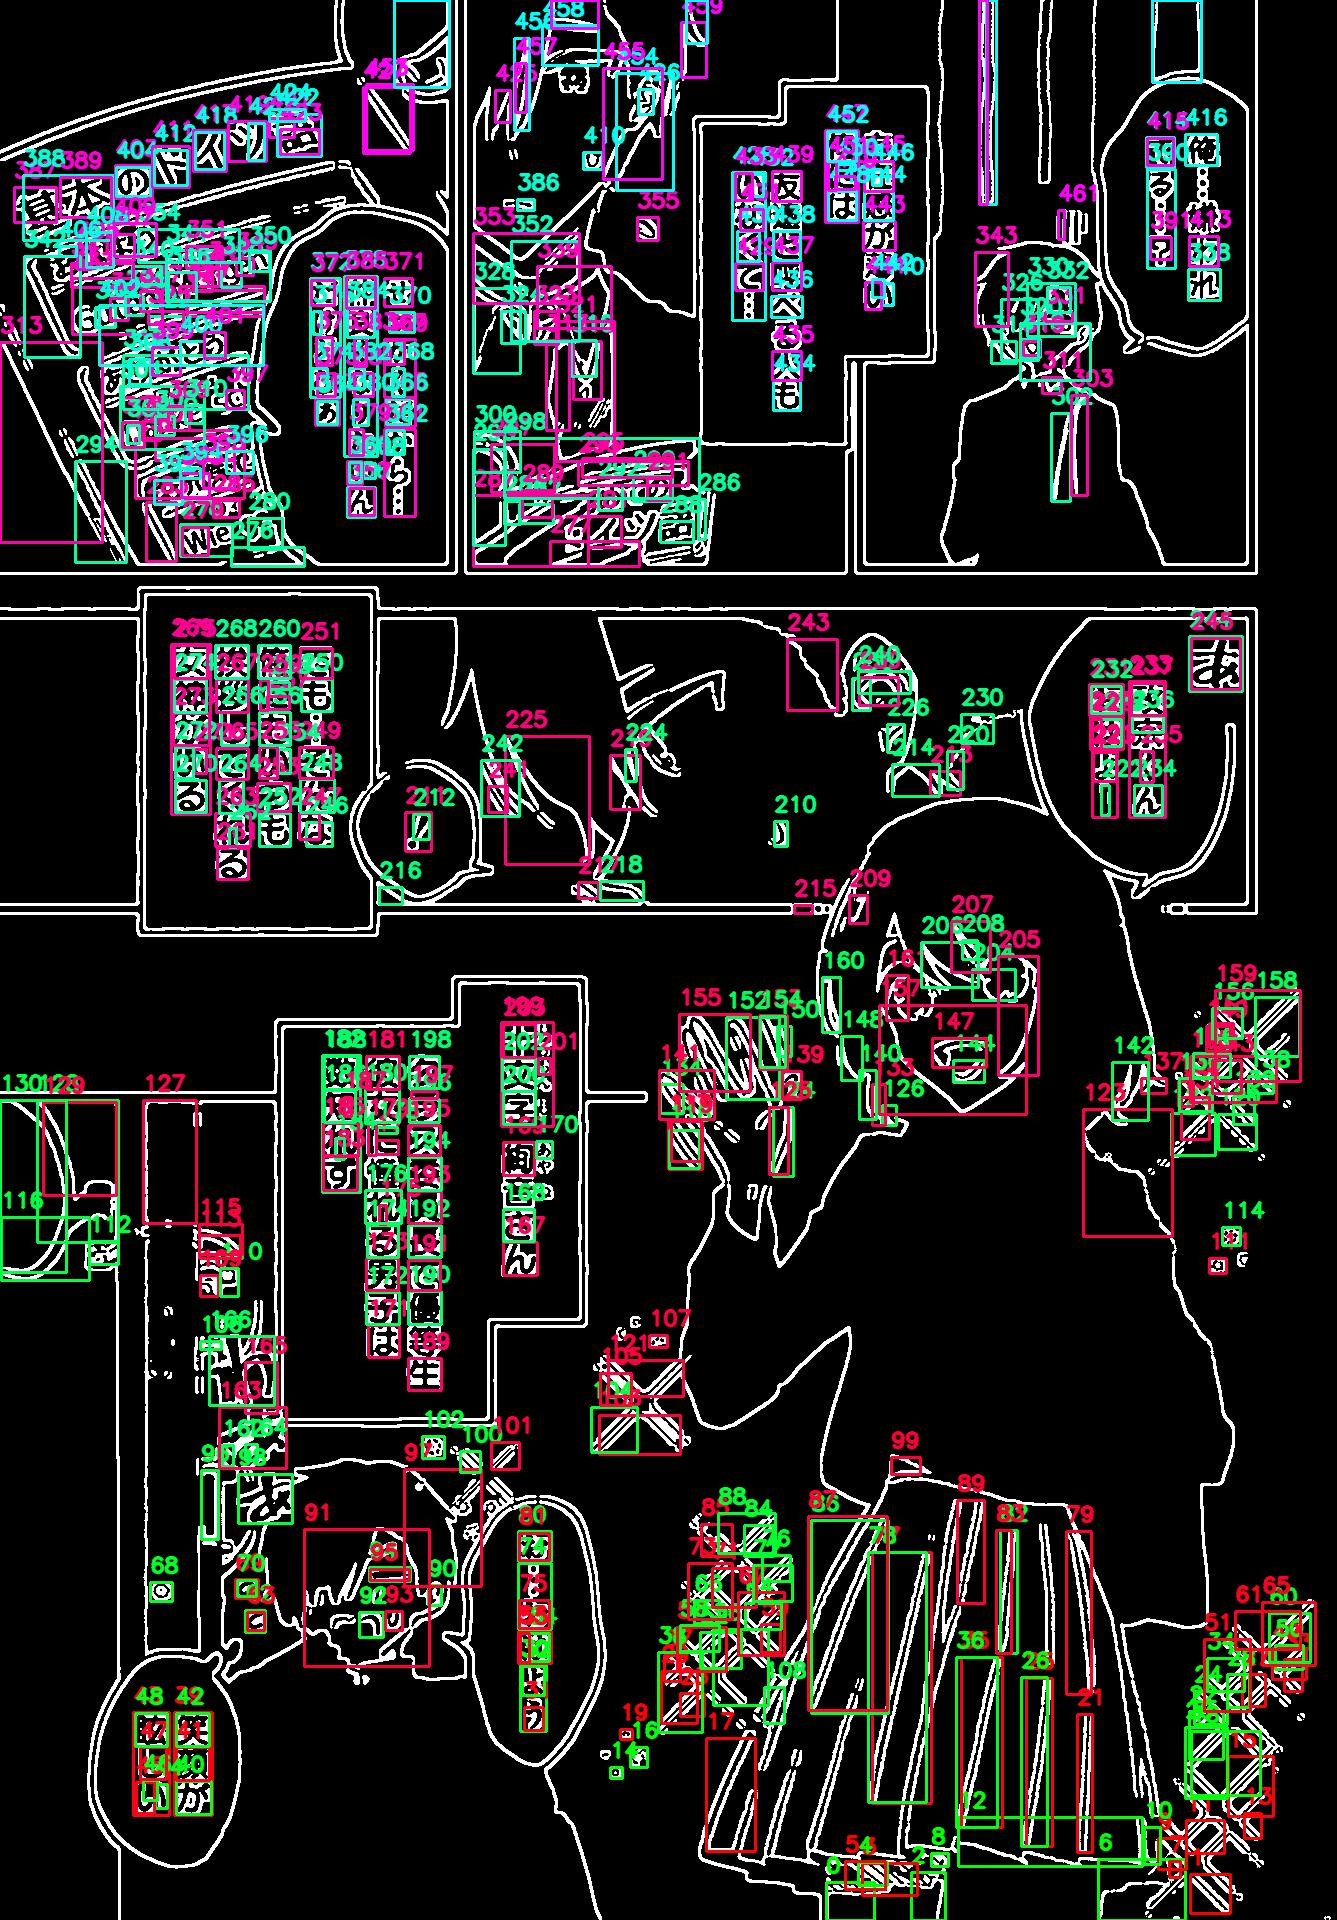
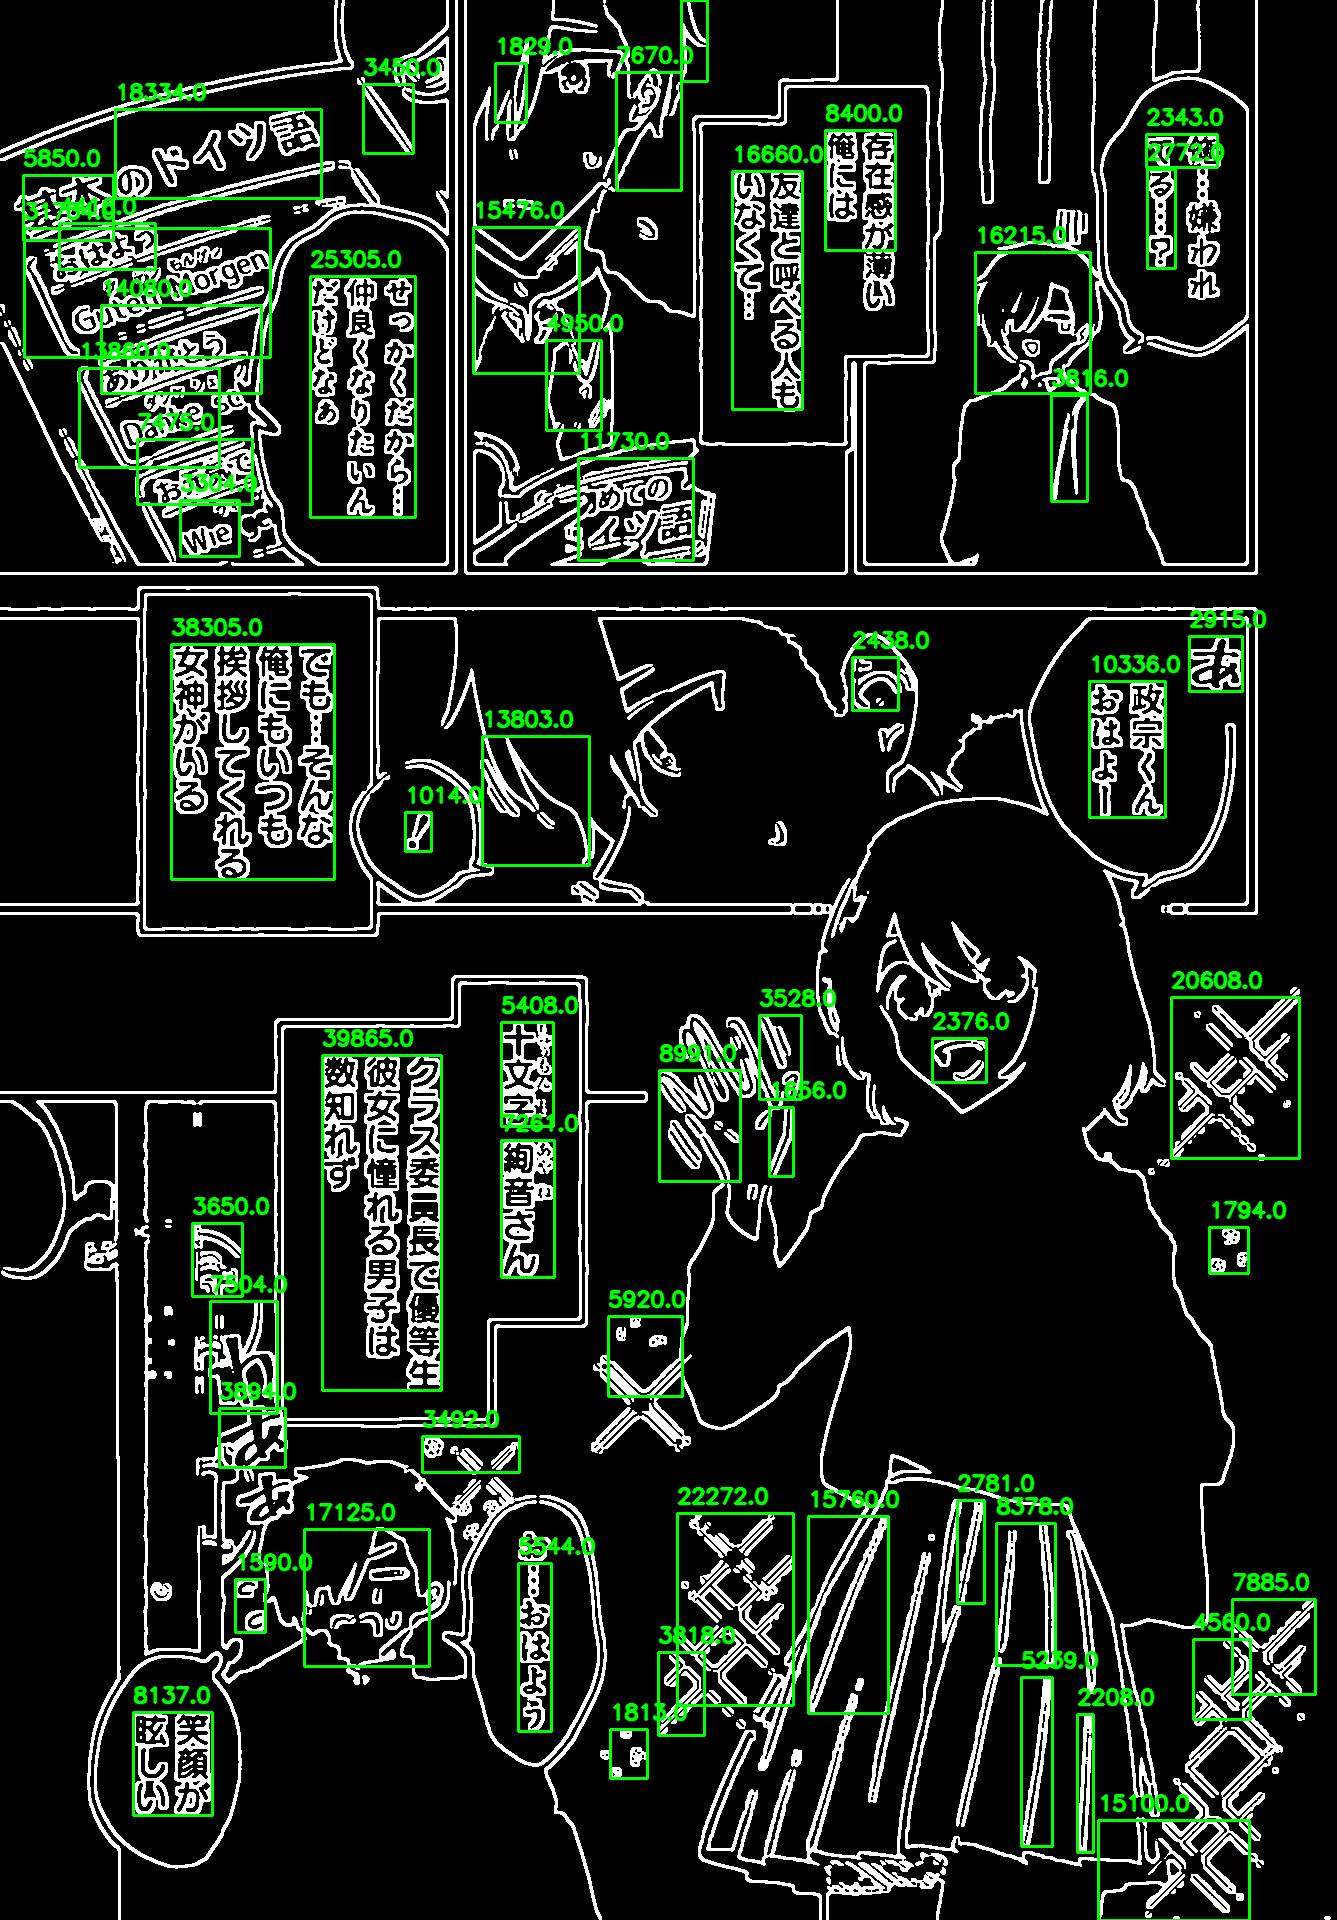
clustering almost done

diff --git a/lib/types/page.py b/lib/types/page.py
@@ -1,4 +1,3 @@
-import random # type: ignore
 import cv2
 import numpy as np
 from sklearn.cluster import DBSCAN
@@ -10,12 +9,14 @@ import manga_ocr # type: ignore
 from PIL import Image # type: ignore
 
 class Page:
-	def __init__(self, img:cv2.Mat, mocr:manga_ocr.MangaOcr) -> None:
+	def __init__(self, img:cv2.typing.MatLike, mocr:manga_ocr.MangaOcr, file:str) -> None:
+		self.file:str = file
 		self.mocr:manga_ocr.MangaOcr = mocr
-		self.img:cv2.Mat = img
+		self.img:cv2.typing.MatLike = img
 		self.area:int = img.shape[0]*img.shape[1]
+		self.width:int = img.shape[1]
 		start:dt = dt.now()
-		self.mask:cv2.Mat = self.createMask(cv2.cvtColor(self.img, cv2.COLOR_BGR2GRAY)) # type: ignore
+		self.mask:cv2.typing.MatLike = self.createMask(cv2.cvtColor(self.img, cv2.COLOR_BGR2GRAY)) # type: ignore
 		self.bubbles:list[Bubble] = self.conjectBubbles()
 		self.bubbles = [b for b in self.bubbles if b.hasContent]
 		# for b in self.bubbles:
@@ -24,122 +25,60 @@ class Page:
 		self.img = self.drawTextBounds(self.img)
 		self.tDelta:float = (end-start).total_seconds()*1000
 
-	def createMask(self, img:cv2.Mat) -> cv2.Mat:
-		threshed:cv2.Mat = cv2.threshold(cv2.medianBlur(img, 5), 200, 255, cv2.THRESH_BINARY)[1] # type: ignore // reduced threshold less black
-		morphed:cv2.Mat = cv2.morphologyEx(threshed, cv2.MORPH_RECT, cv2.getStructuringElement(cv2.MORPH_RECT,(7,7))) # type: ignore // (9,9) < -> less thick > -> thicker
-		contours:list[cv2.Mat] = cv2.findContours(threshed, cv2.RETR_CCOMP, cv2.CHAIN_APPROX_SIMPLE)[0] # type: ignore
-		filteredContours:list[cv2.Mat] = [contour for contour in contours if cv2.contourArea(contour) > 15000 and cv2.mean(morphed, mask=cv2.bitwise_not(morphed))[0] == 0]
-		mask:cv2.Mat = np.zeros_like(morphed)
+	def createMask(self, img:cv2.typing.MatLike) -> cv2.typing.MatLike:
+		threshed:cv2.typing.MatLike = cv2.threshold(cv2.medianBlur(img, 5), 200, 255, cv2.THRESH_BINARY)[1] # type: ignore // reduced threshold less black
+		morphed:cv2.typing.MatLike = cv2.morphologyEx(threshed, cv2.MORPH_RECT, cv2.getStructuringElement(cv2.MORPH_RECT,(7,7))) # type: ignore // (9,9) < -> less thick > -> thicker
+		contours:list[cv2.typing.MatLike] = cv2.findContours(threshed, cv2.RETR_CCOMP, cv2.CHAIN_APPROX_SIMPLE)[0] # type: ignore
+		filteredContours:list[cv2.typing.MatLike] = [contour for contour in contours if cv2.contourArea(contour) > 15000 and cv2.mean(morphed, mask=cv2.bitwise_not(morphed))[0] == 0]
+		mask:cv2.typing.MatLike = np.zeros_like(morphed)
 		cv2.drawContours(mask, filteredContours, -1, 1, thickness=cv2.FILLED) # type: ignore
 		morphed = cv2.bitwise_not(morphed) # type: ignore
 		return cv2.bitwise_and(morphed, morphed, mask=mask) # type: ignore
 
 	def conjectBubbles(self) -> list[Bubble]:
 		bbs:list[Bubble] = []
-		gray = cv2.cvtColor(self.img, cv2.COLOR_BGR2GRAY)
+		gray:cv2.typing.MatLike = cv2.cvtColor(self.img, cv2.COLOR_BGR2GRAY)
 		gray = cv2.bitwise_and(gray, self.mask)
 		
-		blurred:cv2.Mat = cv2.medianBlur(gray, 3) # type: ignore
-		threshed:cv2.Mat = cv2.threshold(blurred, 200, 255, cv2.THRESH_BINARY)[1] # type: ignore
+		blurred:cv2.typing.MatLike = cv2.medianBlur(gray, 3) # type: ignore
+		threshed:cv2.typing.MatLike = cv2.threshold(blurred, 170, 255, cv2.THRESH_BINARY)[1] # type: ignore
 
-		contours:list[cv2.Mat] = cv2.findContours(threshed, cv2.RETR_TREE, cv2.CHAIN_APPROX_SIMPLE)[0] # type: ignore
-		self.img=cv2.cvtColor(threshed, cv2.COLOR_GRAY2BGR) # type: ignore		
-		filtered:list[cv2.Mat] = []
+		contours:list[cv2.typing.MatLike] = cv2.findContours(threshed, cv2.RETR_TREE, cv2.CHAIN_APPROX_SIMPLE)[0] # type: ignore
+		self.img=cv2.cvtColor(threshed, cv2.COLOR_GRAY2BGR) # type: ignore
+		filtered:list[cv2.typing.MatLike] = []
 		for c in range(len(contours)):
 			if len(contours[c]) <= 0: continue
-			perimeter = cv2.arcLength(contours[c], True)
-			# color:tuple[int,int,int] = (0,255,255) if perimeter < 550 else (255,0,255)
-			# color:tuple[int,int,int] = (random.randint(1,256),random.randint(1,256),random.randint(1,256))
+			perimeter:float = cv2.arcLength(contours[c], True)
 			if perimeter > self.img.shape[1]*.42: continue
 			area:float = cv2.contourArea(contours[c])
 			if not self.area*.00003 < area < self.area*.005: continue
-			# approx = cv2.approxPolyDP(contours[c], 0.01 * cv2.arcLength(contours[c], True), True)
-
-			# color:tuple[int,int,int] = (0,255,255) if len(approx) < 20 else (255,0,255)
-
-			# if len(approx) !=12: continue
-			# if (abs(len(contours[c])-len(contours[c-1])) > 5 and abs(len(contours[c])-len(contours[c+1])) > 5) if c+1<len(contours) else False: continue 
-			# cv2.drawContours(self.img, [contours[c]], -1, color, 2)
 			filtered.append(contours[c])
-		a = 255/ len(filtered)
+
+		contourFeatures:list[list[int]] = []
 		for c in range(len(filtered)):
-			color:tuple[int,int,int] = (0,255,a*c) if c%2==0 else (255,0,a*c)
-			drawBoundingBox(self.img, *cv2.boundingRect(filtered[c]), text=str(c), color=color)
-		self.cluster(filtered)
+			moments:cv2.typing.Moments = cv2.moments(filtered[c]) # type: ignore
+			cX:int = int(moments['m10'] / (moments['m00'] if moments['m00']>0 else 1))
+			cY:int = int(moments['m01'] / (moments['m00'] if moments['m00']>0 else 1))
+			contourFeatures.append([c,cX,cY])
+
+		scan = DBSCAN(eps=0.035*self.width, min_samples=2, algorithm="auto")
+		labels:cv2.typing.MatLike = scan.fit_predict(np.asarray(contourFeatures, dtype=np.int32)) # type: ignore
+		for l in np.unique(labels): # type: ignore
+			if l == -1: continue
+			clusterI = np.where(labels==l)[0] # type: ignore
+			ccf:list[int] = [contourFeatures[i][0] for i in clusterI]
+			clustered:list[cv2.typing.MatLike] = [filtered[i] for i in ccf]
+			# for c in clustered:
+			# 	cv2.drawContours(self.img, [c], -1, color=color, thickness=2)
+			brs:list[cv2.typing.Rect] = [cv2.boundingRect(c) for c in clustered]
+			crds:list[list[int]] = [[i[e]+i[e-2] if e > 1 else i[e] for i in brs] for e in range(len(brs[0]))]
+			bubbleBounds:cv2.typing.Rect = [min(crds[0]), min(crds[1]), max(crds[2])-min(crds[0]), max(crds[3])-min(crds[1])]
+			if not 1000 < bubbleBounds[2]*bubbleBounds[3] < 100000: continue
+			bbs.append(Bubble(self.img, CropBox(*bubbleBounds,tolerance=20), self.mocr))
 		return bbs
 
-	def cluster(self, contours:list[cv2.Mat]) -> list[cv2.Mat]:
-		clusters:dict[int, list[tuple[float, int, int]]] = {}
-		c:int = 0
-		for i in range(len(contours)-1):
-			M1 = cv2.moments(contours[i])
-			cX1 = int(M1['m10'] / M1['m00'])
-			cY1 = int(M1['m01'] / M1['m00'])
-			M2 = cv2.moments(contours[i+1])
-			cX2 = int(M2['m10'] / M2['m00'])
-			cY2 = int(M2['m01'] / M2['m00'])
-			distance = ((cX2 - cX1)**2 + (cY2 - cY1)**2)**0.5
-			if distance > 100: c+=1
-			try: clusters[c].append((distance, i, i+1))
-			except: clusters[c] = [(distance, i, i+1)]
-		for sc in clusters.items():
-			print(sc)
-
-
-	def conjectBubblesByBlobs(self) -> list[Bubble]:
-		bbs:list[Bubble] = []
-		# mask:cv2.Mat = np.zeros((self.img.shape[0],self.img.shape[1]), dtype=np.uint8)
-		gray = cv2.cvtColor(self.img, cv2.COLOR_BGR2GRAY)
-		gray = cv2.bitwise_and(gray, self.mask)
-		blurred:cv2.Mat = cv2.GaussianBlur(gray, (3,3), 2) # type: ignore // sigma 0, 1 or 2
-		threshed:cv2.Mat = cv2.threshold(blurred, 150, 255, cv2.THRESH_BINARY)[1] # type: ignore
-		blurred2:cv2.Mat = cv2.GaussianBlur(threshed, (3,3), 2) # type: ignore // sigma 0, 1 or 2
-		self.img=blurred2
-		keypoints = cv2.AgastFeatureDetector_create( # type: ignore
-			threshold=64,
-			nonmaxSuppression=False,
-			type=cv2.AGAST_FEATURE_DETECTOR_AGAST_5_8 # type: ignore
-		).detect(blurred2)
-		labels:cv2.Mat = DBSCAN( # type: ignore
-			eps=30,
-			min_samples=16
-		).fit_predict(np.array([(kp.pt[0], kp.pt[1]) for kp in keypoints])) # type: ignore
-		"""
-					threshold=120,
-			nonmaxSuppression=True,
-			type=cv2.AGAST_FEATURE_DETECTOR_OAST_9_16
-		).detect(threshed)
-		labels:cv2.Mat = DBSCAN( # type: ignore
-			eps=35,
-			min_samples=8
-		
-		"""
-		"""
-				keypoints = cv2.AgastFeatureDetector_create( # type: ignore
-			threshold=150,
-			nonmaxSuppression=False,
-			type=cv2.AGAST_FEATURE_DETECTOR_OAST_9_16 # type: ignore
-		).detect(threshed)
-		labels:cv2.Mat = DBSCAN( # type: ignore
-			eps=35,
-			min_samples=30
-		).fit_predict(np.array([(kp.pt[0], kp.pt[1]) for kp in keypoints])) # type: ignore
-		"""
-		for label in np.unique(labels): # type: ignore
-			if label == -1: continue
-			clusterPoints:cv2.Mat = np.array([(kp.pt[0], kp.pt[1]) for i, kp in enumerate(keypoints) if labels[i] == label]).astype(np.int32) # type: ignore
-			if len(clusterPoints) < 3: continue
-			br:tuple[int,...] = cv2.boundingRect(clusterPoints) # type: ignore
-			if not 0.075*self.area > br[2]*br[3] > 0.0005*self.area: continue
-			bbs.append(Bubble(self.img, CropBox(*br, tolerance=20), self.mocr))
-
-			# cv2.rectangle(mask, (br[0]-20, br[1]-20), (br[0] + br[2]+40, br[1] + br[3]+40), (255), -1) # type: ignore
-		self.img = cv2.drawKeypoints(self.img, keypoints, None, (255,0,255)) # type: ignore
-		return bbs
-
-	def drawTextBounds(self, img:cv2.Mat) -> cv2.Mat:
+	def drawTextBounds(self, img:cv2.typing.MatLike) -> cv2.typing.MatLike:
 		for b in self.bubbles:
 			# print(b)
 			img = drawBoundingBox(img, *b.box.toTuple(), text=str(round(b.area/(len(b.keyPoints)+1),1)), inset=False)
-			# img = drawBoundingBox(img, *b.box.toTuple())
 		return img

diff --git a/lib/misc.py b/lib/misc.py
@@ -1,5 +1,5 @@
-import random
 import cv2
+import cv2.typing
 
 class CropBox:
 	def __init__(self, x:int, y:int, w:int, h:int, tolerance:int) -> None:
@@ -9,18 +9,18 @@ class CropBox:
 		self.h:int = h
 		self.tolerance:int = tolerance
 
-	def crop(self, img:cv2.Mat, tolerance:int|None=None) -> cv2.Mat:
+	def crop(self, img:cv2.typing.MatLike, tolerance:int|None=None) -> cv2.typing.MatLike:
 		tolerance = self.tolerance if tolerance==None else tolerance
-		return img[max(0,self.y-tolerance):min(img.shape[0]-1,self.y+self.h+tolerance), max(0,self.x-tolerance):min(img.shape[1]-1,self.x+self.w+tolerance)]
+		return img[max(0,self.y-tolerance):min(img.shape[0]-1,self.y+self.h+tolerance), max(0,self.x-tolerance):min(img.shape[1]-1,self.x+self.w+tolerance)] # type: ignore
 
 	def toTuple(self, tolerance:int=0) -> tuple[int, int, int, int]:
 		return (self.x-tolerance, self.y-tolerance, self.w+tolerance*2, self.h+tolerance*2)
 
-def drawBoundingBox(image:cv2.Mat,x:int,y:int,w:int,h:int,text:str|None=None, inset:bool=False, color:tuple[int,int,int]=(0,255,0)) -> cv2.Mat:
+def drawBoundingBox(image:cv2.typing.MatLike,x:int,y:int,w:int,h:int,text:str|None=None, inset:bool=False, color:tuple[int,int,int]=(0,255,0)) -> cv2.typing.MatLike:
 	"""Draws a bounding box in an image
 
 	Args:
-		image (cv2.Mat): Image to draw on
+		image (cv2.typing.MatLike): Image to draw on
 		x (int): x pos
 		y (int): y pos
 		w (int): Rectangle width
@@ -29,7 +29,7 @@ def drawBoundingBox(image:cv2.Mat,x:int,y:int,w:int,h:int,text:str|None=None, in
 		inset (bool, optional): If true the text will be inside the rectangle else outside. Defaults to False.
 
 	Returns:
-		cv2.Mat: Image with drawn boxes
+		cv2.typing.MatLike: Image with drawn boxes
 	"""
 	# color:tuple[int,...] = (random.randint(1,256),random.randint(1,256),random.randint(1,256))
 	cv2.rectangle(image, (x, y), (x + w, y + h), color, 2) # type: ignore

diff --git a/lib/types/bubble.py b/lib/types/bubble.py
@@ -1,15 +1,16 @@
 import cv2
+import cv2.typing
 import deep_translator
 from lib.misc import CropBox
 from PIL import Image
 import manga_ocr # type: ignore
 
 class Bubble:
-	def __init__(self, img:cv2.Mat, box:CropBox, mocr:manga_ocr.MangaOcr) -> None:
+	def __init__(self, img:cv2.typing.MatLike, box:CropBox, mocr:manga_ocr.MangaOcr) -> None:
 		self.box:CropBox = box
-		self.img:cv2.Mat = box.crop(img)
+		self.img:cv2.typing.MatLike = box.crop(img)
 		self.area:int = box.w*box.h
-		self.keyPoints:list[cv2.Mat] = []
+		self.keyPoints:list[cv2.typing.MatLike] = []
 		self.mocr:manga_ocr.MangaOcr = mocr
 		self.hasContent:bool = self.checkForContent()
 		self.text:str = ""
@@ -21,12 +22,12 @@ class Bubble:
 			Image.fromarray(self.img).save(f"./out/p_{self.area}.jpg", optimize=True) # type: ignore
 			self.text:str = self.mocr(Image.fromarray(self.img)) # type: ignore
 			lt = deep_translator.MyMemoryTranslator(source="ja-JP", target="en-GB")
-			self.translation = lt.translate(self.text)
+			self.translation = lt.translate(self.text) # type: ignore
 			print(self.text)
 		
 	def checkForContent(self) -> bool:
 		return True
-		blurred:cv2.Mat = cv2.GaussianBlur(self.img, (3,3), 1) # type: ignore // sigma 0, 1 or 2
+		blurred:cv2.typing.MatLike = cv2.GaussianBlur(self.img, (3,3), 1) # type: ignore // sigma 0, 1 or 2
 		keypoints = cv2.AgastFeatureDetector_create( # type: ignore
 			threshold=120,
 			nonmaxSuppression=False,

diff --git a/lib/types/cluster.py b/lib/types/cluster.py
@@ -1,0 +1,42 @@
+import cv2
+import cv2.typing
+
+def distance(c1:list[cv2.typing.MatLike], c2:list[cv2.typing.MatLike]) -> float:
+	sumX1:int = 0
+	sumX2:int = 0
+	sumY1:int = 0
+	sumY2:int = 0
+	for c1s in c1:
+		M1:cv2.typing.Moments = cv2.moments(c1s)
+		cX1:int = int(M1['m10'] / M1['m00'])
+		cY1:int = int(M1['m01'] / M1['m00'])
+		sumX1+=cX1
+		sumY1+=cY1
+	for c2s in c1:
+		M2:cv2.typing.Moments = cv2.moments(c2s)
+		cX2:int = int(M2['m10'] / M2['m00'])
+		cY2:int = int(M2['m01'] / M2['m00'])
+		sumX2+=cX2
+		sumY2+=cY2
+	avgX1=int(sumX1/len(c1))
+	avgY1=int(sumY1/len(c1))
+	avgX2=int(sumX2/len(c2))
+	avgY2=int(sumY2/len(c2))
+	return ((avgX2 - avgX1)**2 + (avgY2 - avgY1)**2)**0.5
+
+def cluster(contours:list[cv2.typing.MatLike]) -> list[list[cv2.typing.MatLike]]:
+	clusters:list[list[cv2.typing.MatLike]] = []
+	for c in contours:
+		clusters.append([c])
+	popped = []
+	for i in range(len(clusters)):
+		for j in range(i+1, len(clusters)):
+			d:float = distance(clusters[i],clusters[j])
+			if i in popped: continue
+			if d > 100: continue
+			clusters[i].extend(clusters[j])
+			popped.append(j)
+	# print(clusters)
+	return clusters
+
+# def mergeCluster()

diff --git a/main.py b/main.py
@@ -10,7 +10,7 @@ mocr = None
 
 for f in os.listdir("./tests/"):
 	print(f, end=" ")
-	p = Page(cv2.imread(f"./tests/{f}"), mocr) # type: ignore
+	p = Page(cv2.imread(f"./tests/{f}"), mocr, f) # type: ignore
 	print(f"t={p.tDelta}ms")
 	Image.fromarray(p.img).save(f"./out/{f}") # type: ignore
 	Image.fromarray(p.mask).save(f"./out/mask_{f}") # type: ignore
